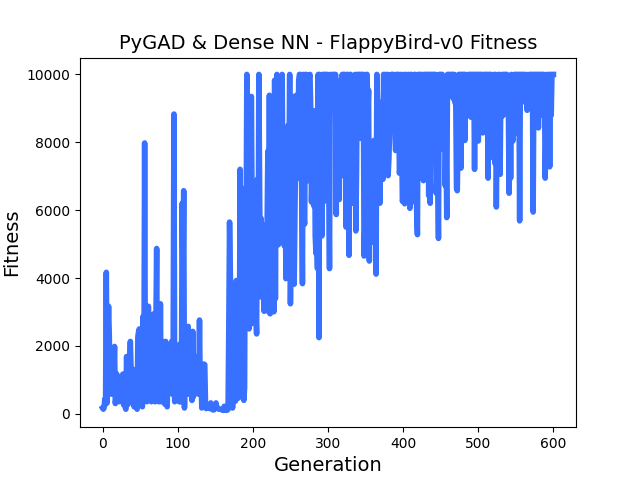
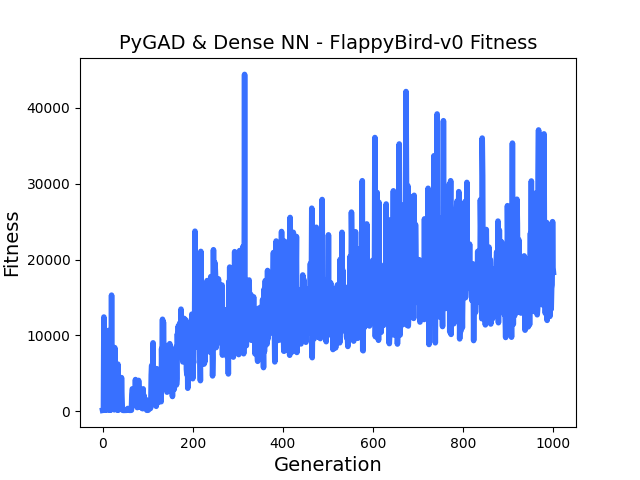
update

diff --git a/gym_play.py b/gym_play.py
@@ -12,8 +12,7 @@ model.load_state_dict(torch.load(STATE_DICT_PATH))
 with torch.no_grad():
     observation = env.reset()
     sum_reward = 0
-    done = False
-    while not done:
+    while 1:
         env.render()
         ob_tensor = torch.tensor(observation.copy(), dtype=torch.float)
         q_values = model(ob_tensor)
@@ -21,7 +20,11 @@ with torch.no_grad():
 
         observation, reward, done, info = env.step(action)
         sum_reward += reward
-        time.sleep(1 / 30)
+        # time.sleep(1 / 30)
 
-
-print("Sum reward: " + str(sum_reward))
+        if done:
+            print("Sum reward: " + str(sum_reward))
+            observation = env.reset()
+            sum_reward = 0
+            time.sleep(1)
+            # break

diff --git a/gym_train.py b/gym_train.py
@@ -19,7 +19,7 @@ def fitness_func(solution, sol_idx):
     observation = env.reset()
     sum_reward = 0
     done = False
-    while (not done) and (-100 < sum_reward < 10000):
+    while (not done) and (-100 < sum_reward < 100000):
         # env.render()
         ob_tensor = torch.tensor(observation.copy(), dtype=torch.float)
         q_values = model(ob_tensor)
@@ -59,7 +59,7 @@ if __name__ == "__main__":
 
     # https://pygad.readthedocs.io/en/latest/README_pygad_ReadTheDocs.html#pygad-ga-class
     parameters = {
-        "num_generations": 600,
+        "num_generations": 200,
         "num_parents_mating": 50,
         "initial_population": torch_ga.population_weights,
         "fitness_func": fitness_func,

diff --git a/README.md b/README.md
@@ -8,10 +8,15 @@ Using a small dense NN. Tested gyms with good results are:
 
 ## Setup
 
+*Using virtualenv is recomended*
 ```sh
 python -m venv venv
 ./venv/bin/activate
-pip install -r requirements.txt
+```
+
+Install dependancies
+```sh
+pip install --force-reinstall -r requirements.txt
 ```
 
 To train the model:
